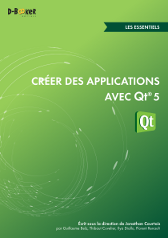
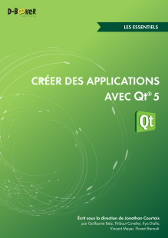
actualisation auteurs

diff --git a/README.md b/README.md
@@ -6,7 +6,7 @@ Ce dépôt contient les codes sources des exemples du livre modulaire [Créer de
 ![Couverture du livre](qt-essentiels-couv.png)
 
 Ce livre est écrit sous la direction de Jonathan Courtois
-par Guillaume Belz, Thibaut Cuvelier, Ilya Dialo et Florent Renault, 
+par Guillaume Belz, Thibaut Cuvelier, Ilya Dialo, Vincent Meyer et Florent Renault, 
 et publié par les éditions [D-BookeR](http://www.d-booker.fr).
 
 Si ces exemples vous intéressent et que vous n'avez pas acheté le livre, nous vous invitons à le [faire](http://www.d-booker.fr/110-qt-5-les-essentiels.html). Sa rédaction est le fruit d'un gros travail et votre soutien nous sera précieux.
